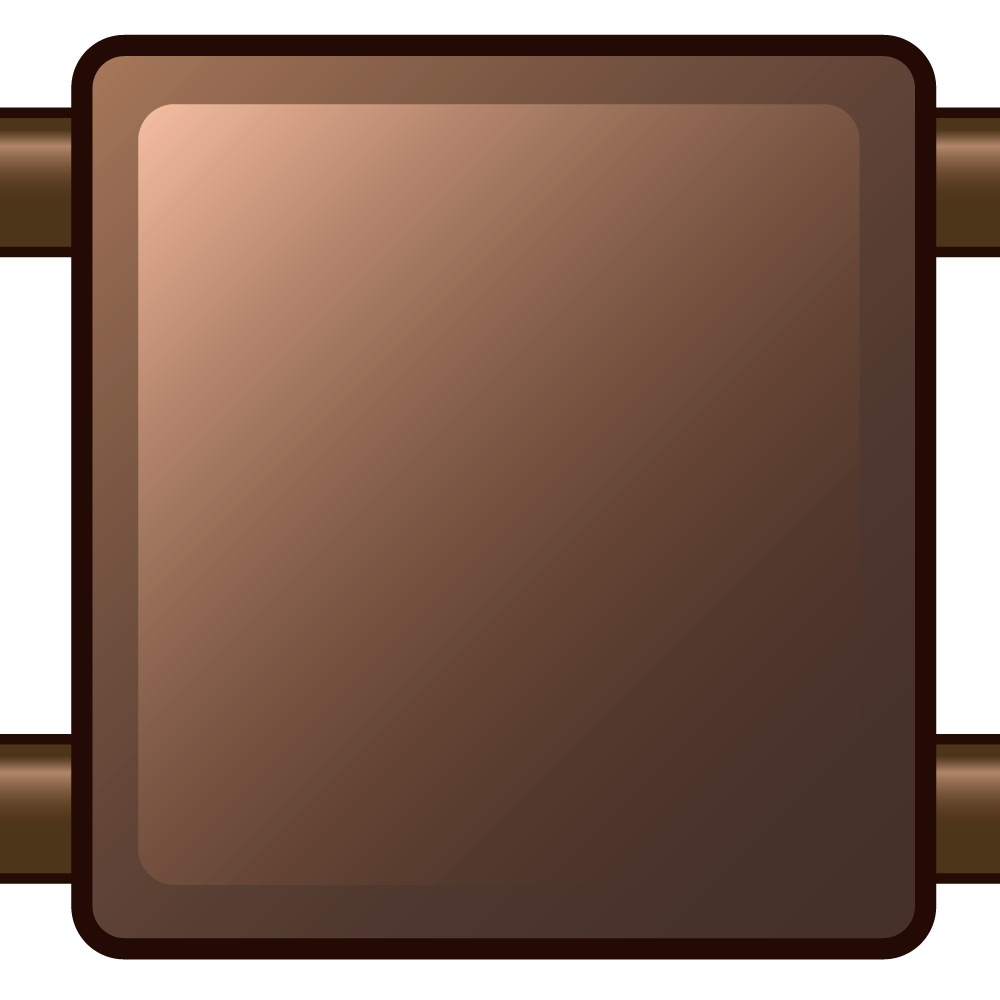
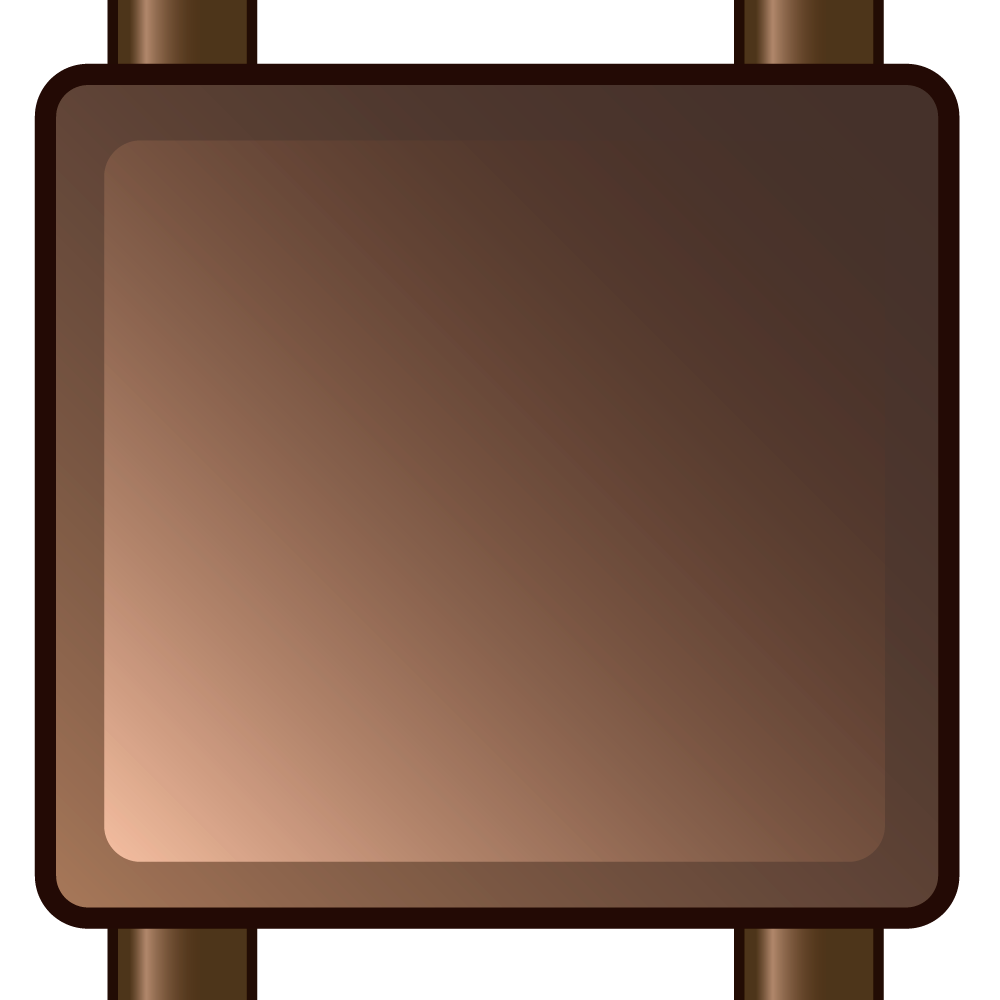
Crazy conveyor rotation

diff --git a/allocator/src/objects/shapeConveyor.ts b/allocator/src/objects/shapeConveyor.ts
@@ -21,17 +21,18 @@ export class ShapeConveyor extends Phaser.GameObjects.Container {
 
     this.layout = new TiledLayout(scene, LayoutDirection.Horizontal, CONVEYOR_CONST.SPACING);
 
-    let slot_size = CONVEYOR_CONST.SHAPE_CELL_WIDTH * 3 + CONVEYOR_CONST.SPACING
+    let slot_size = CONVEYOR_CONST.SHAPE_CELL_WIDTH * 3 + 40;
     this.conveyor = scene.make.tileSprite({
-      x: CONVEYOR_CONST.SHAPE_CAPACITY * slot_size / 2,
-      // TODO: No idea what I'm doing here.
-      y: 60 / 2,
-      width: CONVEYOR_CONST.TILE_SIZE * CONVEYOR_CONST.SHAPE_CAPACITY,
-      height: CONVEYOR_CONST.TILE_SIZE,
-      scale: slot_size / CONVEYOR_CONST.TILE_SIZE,
+      width: CONVEYOR_CONST.TILE_SIZE,
+      height: CONVEYOR_CONST.TILE_SIZE * CONVEYOR_CONST.SHAPE_CAPACITY,
       key: 'conveyor',
       add: false
     });
+    this.conveyor.setOrigin(0, 0);
+    this.conveyor.setScale(
+      slot_size / this.conveyor.width,
+      slot_size / this.conveyor.width,
+    )
     this.add(this.conveyor);
 
     this.add(this.layout);
@@ -58,25 +59,28 @@ export class ShapeConveyor extends Phaser.GameObjects.Container {
     return this.shapes.length == CONVEYOR_CONST.SHAPE_CAPACITY;
   }
 
-  getShapeX(index: number) {
+  getShapeY(index: number) {
     let spacing = CONVEYOR_CONST.SPACING;
-    let x = this.conveyor.displayWidth - CONVEYOR_CONST.SHAPE_CELL_HEIGHT * 3;
+    //let y = this.conveyor.displayHeight - CONVEYOR_CONST.SHAPE_CELL_HEIGHT * 3.5;
+    // TODO: This should depend on
+    //let y = this.conveyor.displayHeight / 8;
+    let y = 20;
 
     for (let i = 0; i < index; i++) {
-      x += this.shapes[i].getBounds().width;
-      x += spacing;
+      y += this.shapes[i].getBounds().height;
+      y += spacing;
     }
 
-    return x;
+    return y;
   }
 
   addNewShape(scene): void {
     console.log("Adding shape");
     let [shape, shapeType] = this.shapeGenerator.generateShape();
     let shapeOnConveyor = new MemoryShapeOnConveyor(scene, shape, shapeType, {
-      x: this.getShapeX(this.shapes.length),
-      // TODO: Make this depend on size of conveyor.
-      y: this.conveyor.displayHeight / 2 - CONVEYOR_CONST.SHAPE_CELL_HEIGHT * 1.5
+      // TODO: Tweak this.
+      x: this.conveyor.displayWidth / 2 - CONVEYOR_CONST.SHAPE_CELL_WIDTH * 1.5,
+      y: this.getShapeY(this.shapes.length),
     });
     this.shapes.push(shapeOnConveyor);
     this.add(shapeOnConveyor);
@@ -90,9 +94,9 @@ export class ShapeConveyor extends Phaser.GameObjects.Container {
     this.remove(shapeOnConveyor);
 
     for (let i = 0; i < this.shapes.length; i++) {
-      let targetX = this.getShapeX(i);
-      if (this.shapes[i].x != targetX) {
-        this.shapes[i].moveAnimated(targetX);
+      let targetY = this.getShapeY(i);
+      if (this.shapes[i].y != targetY) {
+        this.shapes[i].moveAnimated(targetY);
       }
     }
 

diff --git a/allocator/src/objects/memoryShapeOnConveyor.ts b/allocator/src/objects/memoryShapeOnConveyor.ts
@@ -11,7 +11,7 @@ export class MemoryShapeOnConveyor extends Phaser.GameObjects.Container {
   private isChosenSprite: Phaser.GameObjects.Sprite;
 
   constructor(scene, shape, shapeType, params) {
-    super(scene, CONST.GAME_WIDTH, params.y);
+    super(scene, params.x, CONST.GAME_HEIGHT);
 
     this._memoryShape = shape;
     this._shapeType = shapeType;
@@ -54,18 +54,18 @@ export class MemoryShapeOnConveyor extends Phaser.GameObjects.Container {
     }
 
     this.setInteractive(new Phaser.Geom.Rectangle(
-      0, params.y, this.getBounds().width, this.getBounds().height), Phaser.Geom.Rectangle.Contains);
+      params.x, 0, this.getBounds().width, this.getBounds().height), Phaser.Geom.Rectangle.Contains);
 
-    this.moveAnimated(params.x);
+    this.moveAnimated(params.y);
 
     this.startInputEvents();
   }
 
-  moveAnimated(x: number) {
+  moveAnimated(y: number) {
     let moveDelay = 500;
     this.scene.tweens.add({
       targets: [ this ],
-      x: x,
+      y: y,
       ease: 'Sine.easeInOut',
       duration: moveDelay
     });

diff --git a/allocator/src/scenes/mainScene.ts b/allocator/src/scenes/mainScene.ts
@@ -76,10 +76,12 @@ export class MainScene extends Phaser.Scene {
 
     this.shapeGenerator = new ShapeGenerator();
     this.shapeConveyor = new ShapeConveyor(this, {
-      x: 0,
-      y: 0,
+      x: 800,
+      y: 30,
       shapeGenerator: this.shapeGenerator,
     });
+    this.add.existing(this.shapeConveyor);
+
     this.playerInfo = new PlayerInfo(this);
     this.grid = new Grid(this);
 
@@ -102,7 +104,7 @@ export class MainScene extends Phaser.Scene {
 
     this.gameLayout.addItem(this.playerInfo);
     this.gameLayout.addItem(this.grid);
-    this.gameLayout.addItem(this.shapeConveyor, 10);
+    //this.gameLayout.addItem(this.shapeConveyor, 10);
     this.gameLayout.addItem(this.deathTimerText);
     this.gameLayout.addItem(this.wastebin, 20);
 

diff --git a/allocator/src/const/const.ts b/allocator/src/const/const.ts
@@ -26,7 +26,7 @@ export let CONVEYOR_CONST = {
   SHAPE_CELL_BORDER_SIZE: 1,
   MEMORY_SHAPE_ROWS: 3,
   MEMORY_SHAPE_COLUMNS: 3,
-  SPACING: 20,
+  SPACING: 10,
   TILE_SIZE: 1000,
   CREATOR_SHAPE_COLOR: 0x00FF00,
   ERASER_SHAPE_COLOR: 0xFF0000,
